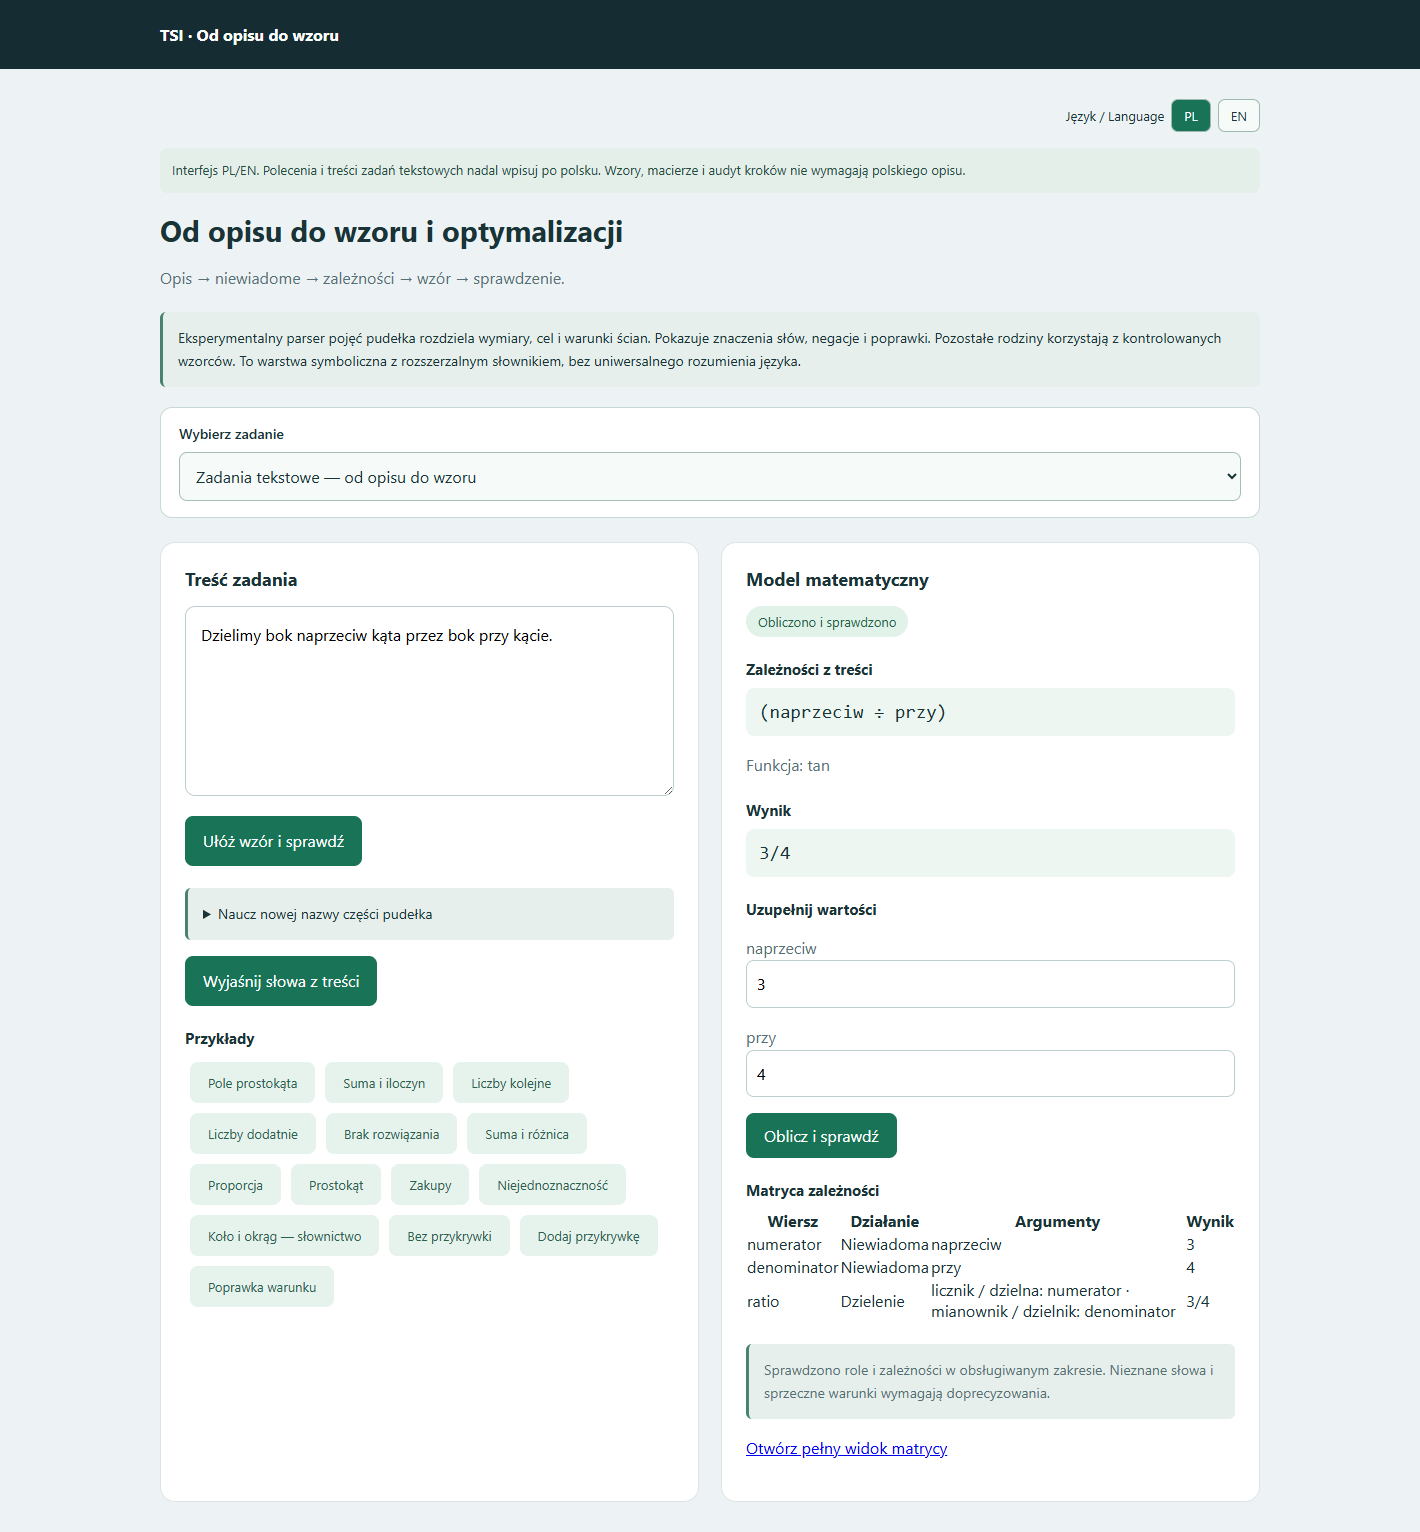
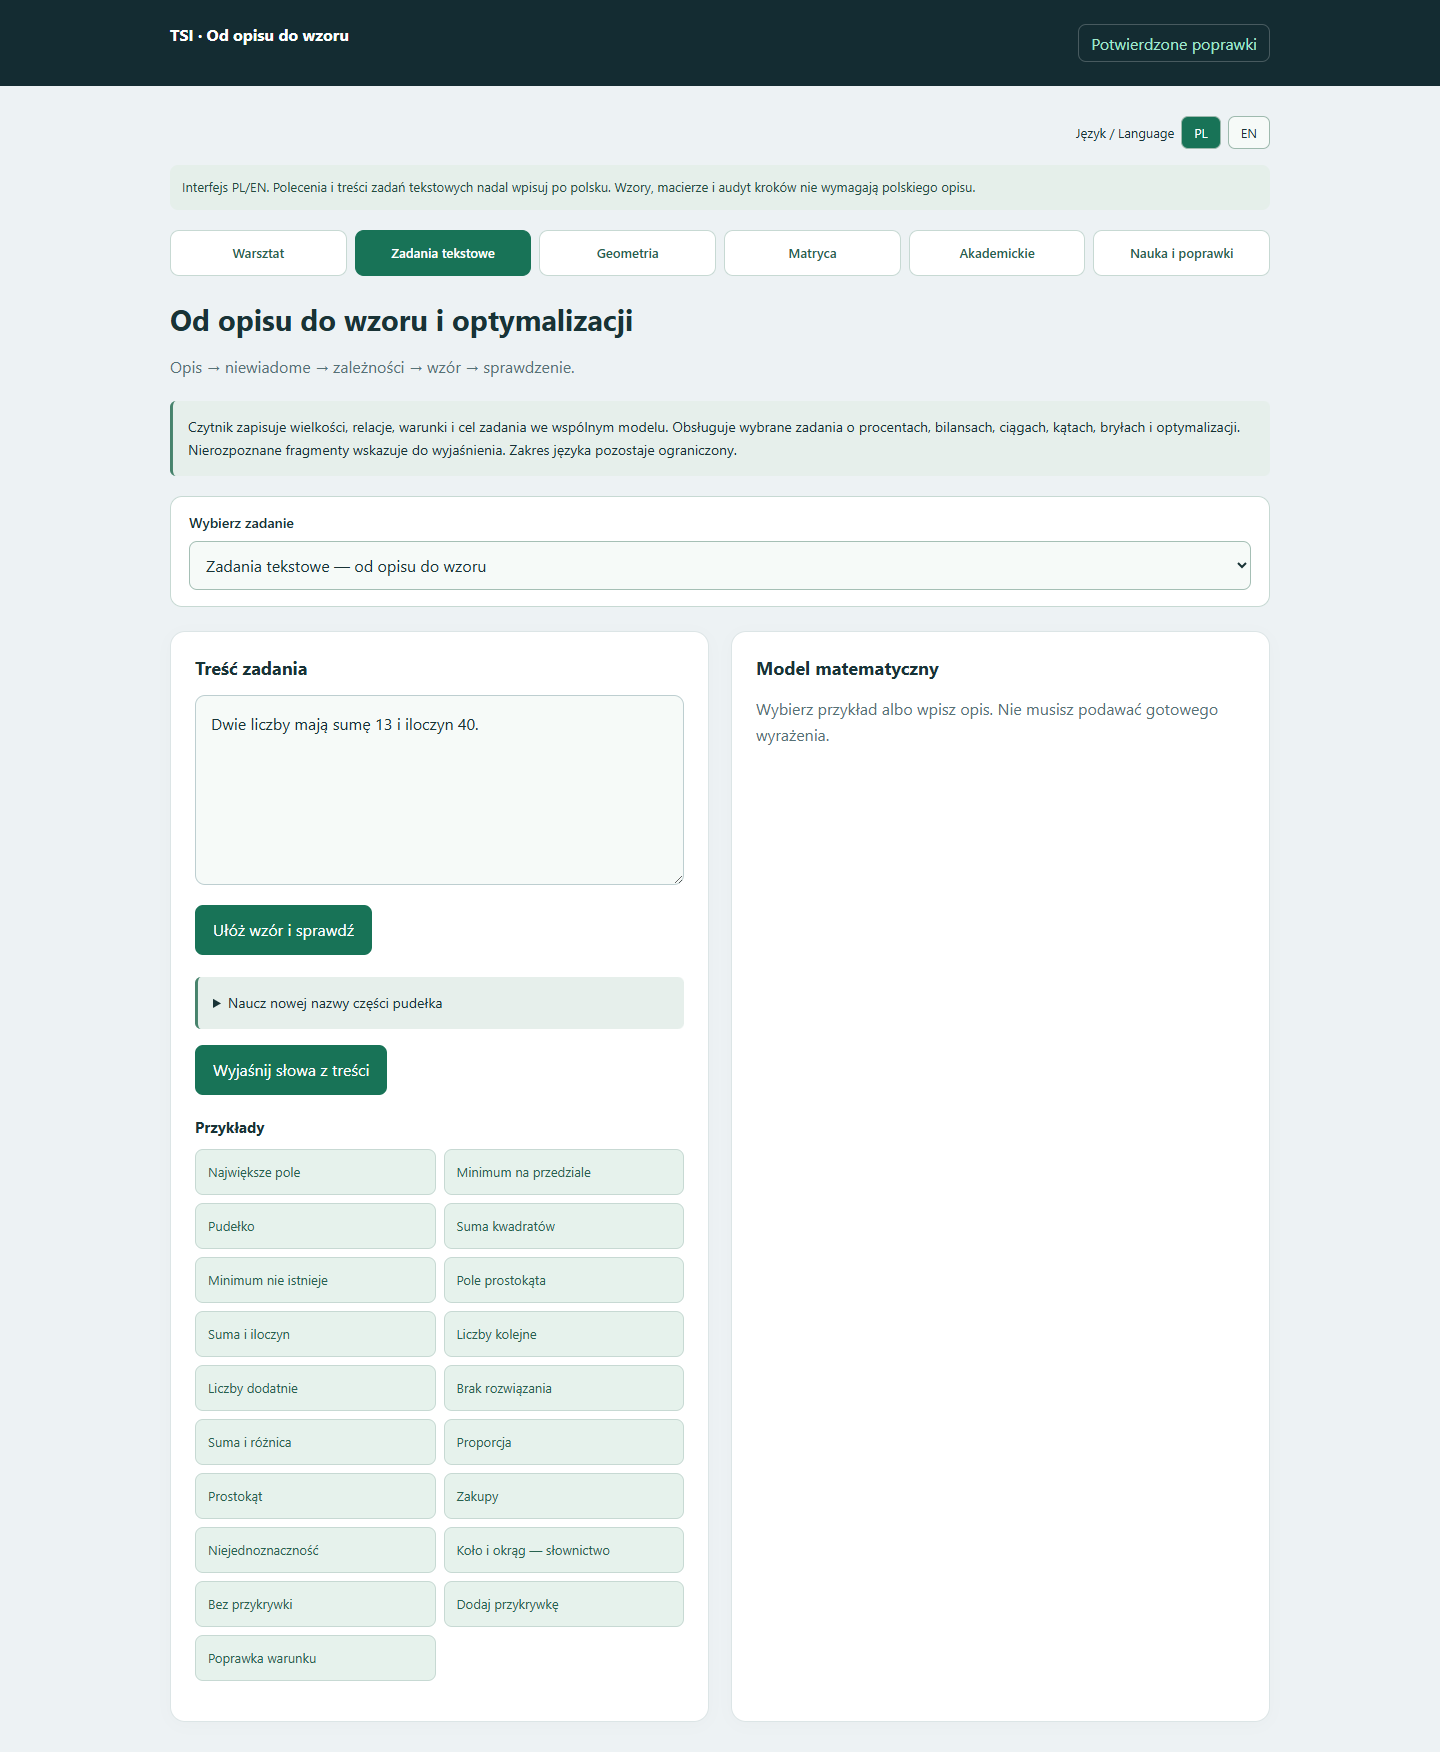
docs: remove private paths and show verified geometry capabilities

diff --git a/README.md b/README.md
@@ -2,6 +2,20 @@
 
 **Stan aktualny: 17 października 2026.** Lokalny warsztat matematyczny: odczytuje wybrane polecenia, buduje model zadania, oblicza wynik i pokazuje sprawdzenie. Interfejs łączy uczone czytniki TSI, kontrolowane reguły i dokładne obliczenia SymPy.
 
+## Podgląd
+
+Główny warsztat: wybór zadania, formularz, wynik i wykres.
+
+![Aktualny dashboard TSI](docs/dashboard-menu.png)
+
+Zadania tekstowe: opis, odczyt modelu i uporządkowane przykłady.
+
+![Zadania tekstowe i przykłady](docs/zadania-matryca-odczyt.png)
+
+Całki: wynik i wykres funkcji oraz pierwotnej.
+
+![Całka z wykresem](docs/calka-z-wykresem.png)
+
 ## Co obecnie potrafi
 
 | Dział | Zakres |
@@ -9,7 +23,7 @@
 | Równania i wykresy | Pierwiastki, podstawienie sprawdzające, wykres funkcji |
 | Zadania tekstowe | Wybrane relacje dwóch liczb, procenty i bilanse, liczebności, ciągi z warunkami, kąty, bryły; pokazuje dane, niewiadome, relacje i cel |
 | Optymalizacja | Pole prostokąta, pudełko z arkusza, suma kwadratów, funkcja kwadratowa na przedziale oraz wybrany model prostopadłościanu; dziedzina i osiągalność ekstremum |
-| Geometria | Podstawowe pojęcia, części i własności figur, kąty, obwód, pole, jednostki i podstawy trygonometrii w kontrolowanych ćwiczeniach |
+| Geometria | Podstawowe pojęcia, części i własności figur, „każdy” / „istnieje”, negacje, kąty, obwód, pole, jednostki i podstawy trygonometrii w kontrolowanych ćwiczeniach |
 | Matryce wielkości | 20 modeli, wybór niewiadomej, zgodne jednostki fizyczne i chemiczne, równania i zależności |
 | Całki | Oznaczone na skończonym ciągłym przedziale i nieoznaczone ze sprawdzeniem pochodną; wykres, gdy można go wyznaczyć |
 | Macierze | Do 6 × 6: działania, wyznacznik, odwrotność, rząd i układy równań |
@@ -37,20 +51,20 @@ Dashboard ma przyciski do podstron, rozwijane menu zadań, wspólne tła paneli 
 
 Aplikacja działa lokalnie na Windows przy uruchomionym serwerze: [otwórz dashboard](http://127.0.0.1:8795/). Adres jest dostępny na tym komputerze podczas pracy serwera. GitHub przechowuje dokumentację, nie uruchomioną aplikację.
 
-| Miejsce | Zawartość / uruchomienie |
+| Katalog lub plik | Zawartość / uruchomienie |
 |---|---|
-| `C:\Users\jback\Downloads\a\TSI-math-validator-5` | Lokalne repo z kodem i modelami; `Uruchom_panel_TSI.bat` |
-| `C:\Users\jback\Downloads\a\TSI-math-validator-5-Portable` | Wersja Windows x64 z kodem, modelami, Pythonem i bibliotekami; `START.bat`, zatrzymanie `ZATRZYMAJ.bat` |
-| `C:\Users\jback\Downloads\a\TSI-math-validator-5-Portable-Windows-x64.zip` | Archiwum portable; rozpakuj w całości przed uruchomieniem |
+| `TSI-math-validator-5` | Lokalne repo z kodem i modelami; `Uruchom_panel_TSI.bat` |
+| `TSI-math-validator-5-Portable` | Wersja Windows x64 z kodem, modelami, Pythonem i bibliotekami; `START.bat`, zatrzymanie `ZATRZYMAJ.bat` |
+| `TSI-math-validator-5-Portable-Windows-x64.zip` | Archiwum portable; rozpakuj w całości przed uruchomieniem |
 | [Repozytorium GitHub](https://github.com/jbackk-lang/TSI-math-validator-5) | Dokumentacja i obrazy; bez kodu, wag i danych treningowych |
 
 Portable nie wymaga instalowania Pythona ani pobierania modeli. Prywatny bank lekcji użytkownika nie jest dołączony. Kod źródłowy i paczka z kodem pozostają lokalnie.
 
 ## Aktualna weryfikacja i ograniczenia
 
-**948 testów regresji przeszło.** Wybrana próbka znanych zadań CKE/ZPE: **10/10**; nowe warianty tej próbki: **50/50**. To sprawdzenie określonego zakresu, nie całej matematyki.
+**1040 testów regresji przeszło.** Wybrana próbka znanych zadań CKE/ZPE: **10/10**; nowe warianty tej próbki: **50/50**. To sprawdzenie określonego zakresu, nie całej matematyki.
 
-W szerszym zestawie ZPE obejmującym 204 wpisy i warianty: **15 odpowiedzi kompletnych, 4 częściowe, 185 nierozwiązanych**. Osobny nowy sprawdzian własności figur i słów „każdy”, „może”, „musi”: **2/30**, bez błędnych zaakceptowanych odpowiedzi; sześć kontroli brakujących danych zatrzymano poprawnie. Ten zakres wymaga dalszej rozbudowy.
+W szerszym zestawie ZPE obejmującym 204 wpisy i warianty: **41 odpowiedzi kompletnych, 5 częściowych, 158 nierozwiązanych**. Własności figur i słowa „każdy”, „może”, „musi”: **30/30 w zestawie akceptacyjnym**. Osobny zestaw nowych sformułowań: początkowo **23/24**, po poprawce słownika **24/24**. Dwanaście kontroli brakujących lub sprzecznych danych prawidłowo zatrzymano. [Zakres i znaczenie wyników](docs/WLASNOSCI_FIGUR_2026-10-17.md).
 
 TSI nie rozumie jeszcze dowolnego opisu. Nierozpoznany warunek, brak ilustracji lub utracony układ tabeli mogą zatrzymać zadanie. Poprawny rachunek nie gwarantuje poprawnego odczytu tekstu. Niewykonany rysunek oznacza wykonanie częściowe. Audyt obejmuje jedną zmienną i wybrane równania wymierne do stopnia 6; nie jest ogólnym narzędziem dowodzenia. Całki niewłaściwe i nieskończone granice są poza potwierdzonym zakresem.
 

diff --git a/docs/WLASNOSCI_FIGUR_2026-10-17.md b/docs/WLASNOSCI_FIGUR_2026-10-17.md
@@ -1,0 +1,43 @@
+# Własności figur i kwantyfikatory — 17.10.2026
+
+## Aktualny wynik
+
+Poprzednie 2/30 zastąpiono **30/30 w zestawie akceptacyjnym**. Ten zestaw był oglądany podczas rozbudowy i nie jest już niezależnym sprawdzianem. Dodatkowy zestaw 24 sformułowań zamrożono przed implementacją: pierwszy wynik **23/24**, bez błędnej odpowiedzi; jeden brak odczytu dotyczył odmiany „nierównych boków”. Po uzupełnieniu słownika jest **24/24**, co należy traktować jako wynik po naprawie. Wszystkie **12 kontroli brakujących lub sprzecznych danych** nadal zatrzymuje odpowiedź.
+
+Pełny zestaw regresji po zmianach: **1040 testów przeszło**. W działającym formularzu sprawdzono przeciwne kwantyfikatory, widoczne przykłady kątów i współrzędnych, błędne dane, ekran mobilny i brak błędów JavaScript. Do testów negatywnych użyto osobnego banku, bez lekcji użytkownika.
+
+## Co zostało wdrożone
+
+Pytanie jest odczytywane jako klasa figur, warunki, własność, kwantyfikator i zakres negacji. „Każdy romb ma równe przekątne” i „Istnieje romb z równymi przekątnymi” otrzymują różne odpowiedzi: odpowiednio **nie** i **tak**. „Nie może” oznacza brak dopuszczalnego przykładu; „każdy nie jest” sprawdza zanegowaną własność dla każdej figury, bez odwracania zakresu negacji.
+
+Dla trójkątów model stosuje dodatnie kąty o sumie 180°, zależność równości boków i przeciwległych kątów oraz klasy: równoboczny, równoramienny, różnoboczny, prostokątny, ostrokątny i rozwartokątny. Dokładna eliminacja liniowych nierówności na ułamkach rozstrzyga istnienie modelu i odtwarza jego kąty. Obsługiwane są m.in. największy kąt, liczba kątów prostych/rozwartych, dane dwóch lub trzech kątów oraz nierówność trójkąta dla trzech długości w tej samej obsługiwanej jednostce.
+
+Dla czworokątów prawdziwe twierdzenia ogólne wynikają z jawnych definicji i własności klas. Przeciwprzykłady oraz potwierdzenia istnienia są sprawdzane na dokładnych współrzędnych. Skończona lista przykładów **nie służy do dowodzenia twierdzeń ogólnych**. Gdy brakuje twierdzenia i sprawdzonego przykładu, czytnik nie zgaduje.
+
+Formularz pokazuje odczyt „dla każdej” / „istnieje” oraz konkretne kąty lub wierzchołki przykładu, gdy występuje. Dodano cztery przyciski przykładów. Wybrane instrukcje arkuszowe i listy odpowiedzi są rozbijane na pytania z zachowaniem wszystkich opcji. Nieznana opcja oznacza wynik częściowy; nie jest usuwana.
+
+To **rozbudowa kontrolowanego czytnika i jawnego modelu matematycznego**, nie nowy trening oryginalnego rdzenia neuronowego. Oryginalne modele są zachowane.
+
+## Ponowne sprawdzenie ZPE
+
+| Stan w tym samym zestawie 204 wpisów | Poprzednio | Teraz |
+|---|---:|---:|
+| Kompletne poprawne odpowiedzi | 15 | **41** |
+| Wykonania częściowe | 4 | **5** |
+| Bez rozwiązania | 185 | **158** |
+
+26 nowych kompletnych odpowiedzi sprawdzono merytorycznie według sumy kątów, zależności boków i kątów, symetrii, definicji klas oraz własności przekątnych. Wcześniejsze 15 poprawnych odpowiedzi również sprawdzono ponownie. Dodatkowy wynik częściowy dotyczy listy własności wielokątów, w której część zdań nadal nie jest rozpoznana.
+
+Zestaw obejmuje 129 numerowanych ćwiczeń, warianty źródłowe i wyodrębnione zdania. **41/204 nie oznacza wyniku dla 204 niezależnych zadań.** Konstrukcje, brakujące ilustracje, złożone tabele, ortocentrum, liczne inne własności i dowolny język pozostają poza tym wdrożeniem.
+
+## Przykłady
+
+| Pytanie | Odpowiedź |
+|---|---|
+| Czy każdy romb ma równe przekątne? | Nie; sprawdzony romb o nierównych przekątnych |
+| Czy istnieje romb z równymi przekątnymi? | Tak; kwadrat |
+| Czy trójkąt równoramienny może być rozwartokątny? | Tak; dodatnie kąty o sumie 180°, dwa równe i jeden rozwarty |
+| Czy trójkąt może mieć dwa kąty proste? | Nie; trzeci musiałby być niedodatni |
+| Czy istnieje trójkąt, w którym największy kąt ma 50°? | Nie; suma nie przekroczyłaby 150° |
+
+[Wcześniejsza diagnoza](DIAGNOZA_ZPE_2026-10-17.md) · [Historia projektu](HISTORIA_PROJEKTU.md)

diff --git a/docs/HISTORIA_PROJEKTU.md b/docs/HISTORIA_PROJEKTU.md
@@ -151,3 +151,8 @@ Zestawy 261, 62 i 326 obejmują częściowo te same sprawdzenia; nie należy ich
 W działającej instalacji panel jest pod `http://127.0.0.1:8795/`. Ten adres działa wyłącznie na komputerze z uruchomionym serwerem; GitHub przechowuje dokumentację, nie aplikację. W modelach językowych wykorzystywany jest również wcześniej uczony HerBERT.
 
 [Etap akademicki](ETAP_AKADEMICKI_2026-10-16.md) · [Etap kwadratowy](ETAP_KWADRATOWY_2026-10-16.md) · [Diagnostyka i wykresy](DIAGNOSTYKA_2026-10-16.md) · [Pomiary menedżera](WYNIKI_2026-10-15.md) · [Pochodzenie komponentów](POCHODZENIE.md).
+
+
+## 17.10.2026 — własności figur i powrót podglądu w README
+
+Rozbudowano kwantyfikatory, negację oraz dokładny model kątów i własności czworokątów. Zestaw akceptacyjny: 2/30 → 30/30. Nowy zamrożony zestaw: początkowo 23/24, po uzupełnieniu odmiany słowa 24/24. Kontrole braków/sprzeczności: 12/12. ZPE: 15 → 41 kompletnych odpowiedzi, pięć częściowych i 158 nierozwiązanych wpisów; warianty nie są niezależnymi zadaniami. Pełna regresja 1040. Przywrócono trzy podglądy w README; dwa zrzuty odświeżono do nowego układu. [Pełny opis](WLASNOSCI_FIGUR_2026-10-17.md).

diff --git a/docs/DIAGNOZA_ZPE_2026-10-17.md b/docs/DIAGNOZA_ZPE_2026-10-17.md
@@ -1,5 +1,7 @@
 # Diagnoza odczytu zadań ZPE — 17.10.2026
 
+**Zapis historyczny sprzed rozbudowy własności figur.** [Aktualne wyniki: 41 kompletnych odpowiedzi](WLASNOSCI_FIGUR_2026-10-17.md).
+
 Przejrzano 204 zapisane przypadki z pięciu materiałów ZPE: koła i okręgi, obwody prostokątów i kwadratów, trójkąty (dwa materiały) oraz wielokąty. Zestaw obejmuje 129 numerowanych ćwiczeń, ich warianty i wyodrębnione pytania. Nie jest to 204 niezależnych zadań rozwiązywalnych wyłącznie z tekstu.
 
 ## Korekta wcześniejszego wyniku
